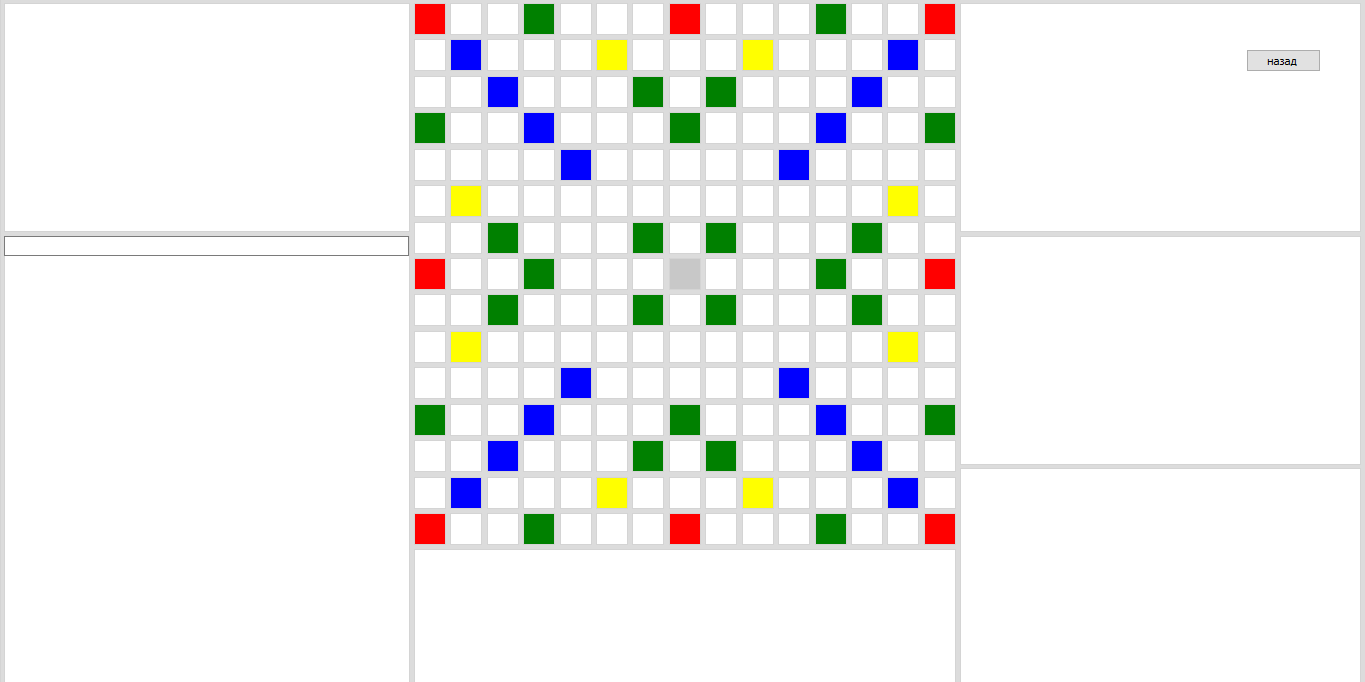
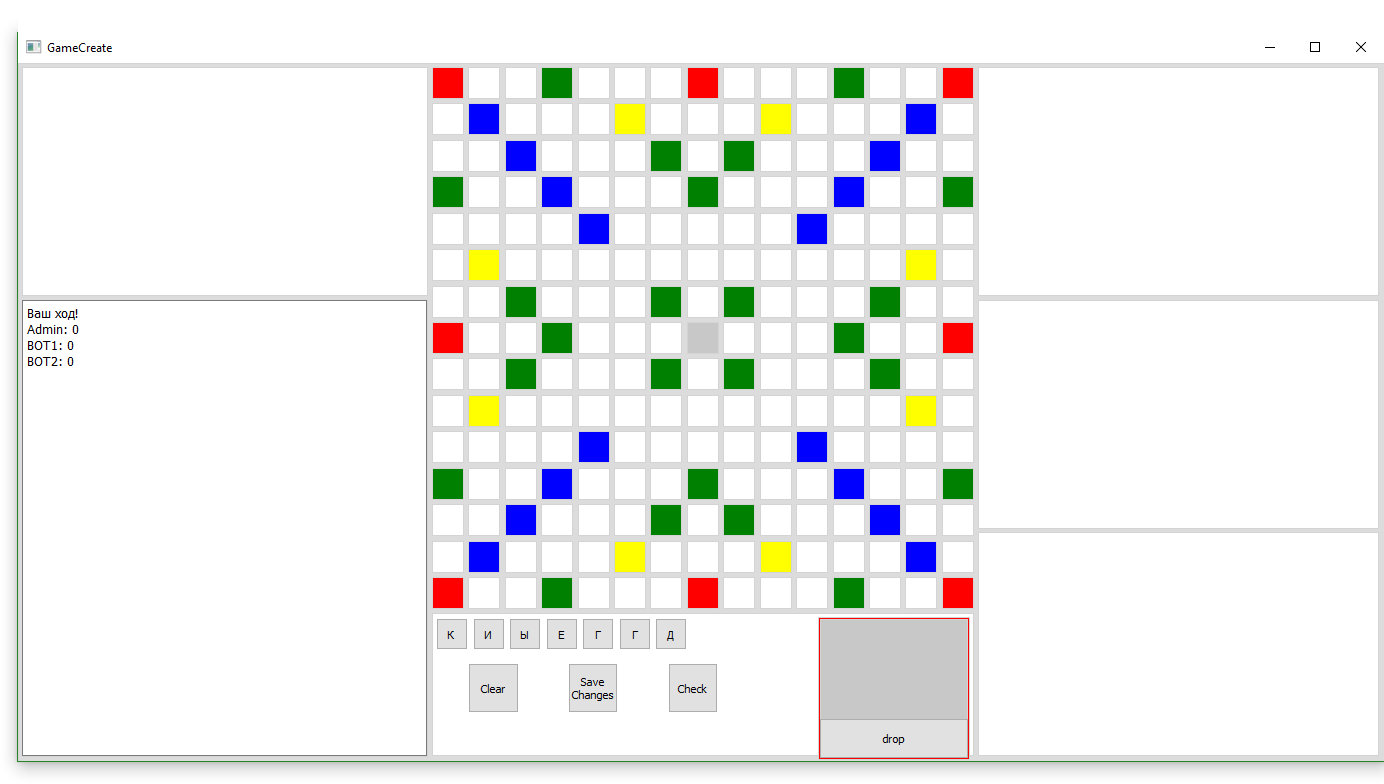
Исправление отчета

Changed region(s): [[0.0, 0.0, 1.0, 1.0]]

diff --git a/text/main.tex b/text/main.tex
@@ -11,7 +11,6 @@
 \documentclass[a4paper,14pt]{article}
 
 \input{data/preambular.tex}
-\input{data/algo.tex}
 \begin{document} % конец преамбулы, начало документа
 \input{data/title.tex}
 \tableofcontents
@@ -85,8 +84,8 @@ So, we chose this subject for work. As a result of the development was obtained 
 	\subsection{GameDictionary}
 	Это небольшой класс, однако он выполняет важные задачи.
 	При его инициализации из файла загружаются словари слов русского языка и пользовательский.
-	%TODO
-	В качестве основы был взят толковый словарь русского языка \cite{dictionary}.
+
+	В качестве основы был взят толковый словарь русского языка.
 	В процессе работы программы может быть вызван метод $append(self, item)$, который добавит в пользовательский словарь новое слово и сохранит его на диске.
 	Кроме того, метод $prepare(self, alphabet)$ подготавливает словарь для компьютерного соперника.
 	Это существенно облегчает работу алгоритма, так как сразу исключает те слова, которые никак не могут быть проставлены.
@@ -193,12 +192,15 @@ $PyQt5$ одна из самых мощных и популярных кросс
 		\caption{Задний фон}
 		\label{img:background}
 	\end{figure}
-		
+	
+	% TODO	
 	В функции $initUI$ создаются виджеты кнопок (QPushButton) и виджет изменения строки (QLineEdet), который будет использоваться в качестве консоли.
 		
+	% TODO
 	После ввода текста в консоль и нажатия кнопки "Enter"\ вызывается функция $enter$.
 	В зависимости от введенного текста могут выполниться следующие функции: $Help$, $ProverkaKoordinat$,  $lastLetters$,  $ClearChanges$, $SeveChangesForm$, $dobavlenie$, $Drop$.
 	
+	% TODO
 	\begin {itemize}
 	\item $Help$ (Help()) - показывает все возможные команды, которые можно выполнить используя консоль
 	\item $ProverkaKoordinat$ (ProverkaKoordinat(i, x, y)) - переносит букву с номером i на позицию (x, y), формирует массивы с новыми буквами и их координатами	
@@ -215,25 +217,26 @@ $PyQt5$ одна из самых мощных и популярных кросс
 	\item $Drop$ (Drop(dr)) - сбрасывает буквы, номера которых находятся в массиве dr.
 	\end {itemize}
 	
-	Для вывода уведомлений пользователю использовалась функция $Message$ (Message(text)), коротая при помощи виджета QMessageBox выводит уведомление пользователю.
-	Примеры изображены на \imref{img:startTurn} и \imref{img:endTurn}.
-	\begin{figure}[H]
-		\centering
-		\includegraphics[scale=1]{myhod.png}
-		\caption{Уведомление о начале хода}
-		\label{img:startTurn}
-	\end{figure}
-	\begin{figure}[H]
-		\centering
-		\includegraphics[scale=1]{endhod.png}
-		\caption{Уведомление о конце хода}
-		\label{img:endTurn}
-	\end{figure}
+	Для вывода уведомлений пользователю использовалась функция $add\_to\_console$, коротая добавляла текст уведомления о событиях в игре, а так же сообщала количество баллов каждого игрока (\imref{img:game}).
 
+	\begin{figure}[H]
+		\centering
+		\includegraphics[width=\linewidth]{game.png}
+		\caption{Игровое поле после нескольких ходов}
+		\label{img:game}
+	\end{figure}
 
 \section{Процесс работы программы}
-	В данный момент работа программы начинается с запуска игровых модулей.
-	При инициализации класса $GameServer$, который создает всех необходимых пользователей, с диска загружается словарь, подготавливается необходимый алфавит, после чего создается игровой интерфейс.
+	В данный момент работа программы начинается с запуска стартовой формы (\imref{img:start}).
+	Пользователь выбирает количество компьютерных соперников, с которыми он будет играть, а так же их уровень сложности от 0 до 1.
+	При нажатии кнопки <<Запустить>> создается игровая форма, игровой сервер, интерфейсы взаимодействия локального игрока и компьютерных соперников, загружается словарь и подготавливается алфавит, после чего готовая форма отображается пользователю.
+
+	\begin{figure}[H]
+		\centering
+		\includegraphics[width=0.4\linewidth]{start.png}
+		\caption{Форма создания игры}
+		\label{img:start}
+	\end{figure}
 
 	\subsection[Отрисовка интерфейса]{Отрисовка пользовательского интерфейса}
 	Отрисовка интерфейса начинается с создания формы, где задаются ее размеры, а также местоположение на экране.
@@ -241,19 +244,12 @@ $PyQt5$ одна из самых мощных и популярных кросс
 		
 	\subsection{Игровая механика}
 	Игроки ходят по очереди, действия компьютерного соперника выполняются автоматически, без вмешательства пользователя.
-	Человеку предоставлена возможность вносить команды через консоль.
-	С помощью команд которой он может устанавливать позицию фишек, очищать поле, сбрасывать фишки и завершать ход.
+	Человеку предоставлена возможность передавать команды через интуитивный графический интерфейс.
+	С его помощью можно фишки установить на поле или сбросить некоторое число, проверить правильность хода, добавить новые слова, отменить все свои действия.
 	Затем программа проверяет действия пользователя, и если она не нашла некоторые слова в своем словаре, то спрашивает игрока является ли найденная последовательность букв словом.
 	В случае успеха действия игрока запоминаются и ход передается следующему.
 	После каждого хода показывается уведомление, а также при наступлении очереди текущего игрока. На \imref{img:game} показан промежуточный этап игры.
 	
-	\begin{figure}[bhtp]
-		\centering
-		\includegraphics[width=0.5\linewidth]{game.png}
-		\caption{Результат модульного тестирования}
-		\label{img:game}
-	\end{figure}
-
 	\subsection{Завершение игры}
 	При достижении условий окончания игры - закончились фишки или все игроки пропустили ход определенное число раз - сервер завершает свою работу и показывает сообщение о баллах, которые набрал каждый игрок (\imref{img:endGame}).
 	
@@ -335,6 +331,15 @@ $PyQt5$ одна из самых мощных и популярных кросс
 	В игре есть возможность добавление новых слов в словарь.
 	В ходе многочисленных тестов программа работала стабильно.
 	
-\printbibliography[env=gostbibliography,sorting=ntvy]
+\newpage 
+\renewcommand{\refname}{{\normalsize СПИСОК ИСПОЛЬЗОВАННЫХ ИСТОЧНИКОВ}} 
+\centering 
+\begin{thebibliography}{9} 
+	\addcontentsline{toc}{section}{\refname} 
+	\bibitem{python} Доусон М. Программируем на Python //СПб.: Питер. – 2014. – Т. 416.
+	\bibitem{pyqt} Прохоренок Н. А. Python 3 и PyQt. Разработка приложений. – БХВ-Петербург, 2012.
+	\bibitem{scrabble} Скрэббл, URL: \url{https://ru.wikipedia.org/wiki/Скрэббл} (дата обращения 13.01.2018) 
+	
+\end{thebibliography}
 \end{document} % конец документа
 

diff --git a/text/data/preambular.tex b/text/data/preambular.tex
@@ -90,38 +90,13 @@
 	filecolor=magenta,      % на файлы
 	urlcolor=black           % на URL
 }
-
-%\usepackage{csquotes} % Еще инструменты для ссылок
-%
-%\usepackage[style=authoryear,
-%style
-%maxcitenames=2,
-%backend=biber,
-%sorting=nty
-%]{biblatex}
-
-\usepackage[% 
-backend=biber, %подключение пакета biber (тоже нужен)
-bibstyle=gost-numeric, %подключение одного из четырех главных стилей biblatex-gost 
-%citestyle=numeric-comp, %подключение стиля стиля (а вот!) 
-language=auto, %указание сортировки языков
-babel=other, %указание языков
-sorting=ntvy, %тип сортировки в библиографии
-doi=false, 
-eprint=false, 
-isbn=false, 
-dashed=false, 
-url=false %все false выключают отображение полей, заполненных в библиографической базе, но не актуальных для печатного листа
-]{biblatex}
-\usepackage{bibentry} %пакет, отвечающий за отображение ссылок при использовании BibTex 
-\DeclareFieldFormat{postnote}{#1} %убирает с. и p. 
-\renewcommand*{\multicitedelim}{\addsemicolon\space} % добавляет точку с запятой и пробел (; ) в перечислении
-\renewcommand*{\postnotedelim}{\addcolon\space} % добавляет двоеточие и пробел (: ) перед номером страницы
-
-\DeclareFieldFormat{url}{%
-	\mkbibacro{URL}\addcolon\space
-	\href{#1}{\nolinkurl{\thefield{urlraw}}}}
-\addbibresource{data/books.bib}
+\makeatletter 
+\def\@biblabel#1{#1. } 
+\makeatother
+\usepackage{cite} % Работа с библиографией
+%\usepackage[superscript]{cite} % Ссылки в верхних индексах
+%\usepackage[nocompress]{cite} % 
+\usepackage{csquotes} % Еще инструменты для ссылок
 
 \usepackage{multicol} % Несколько колонок
 

diff --git a/text/data/title.tex b/text/data/title.tex
@@ -9,7 +9,7 @@
 	\begin{center}
 		\textbf{Московский институт электроники и математики}
 		
-		\textbf{ВШЭ Им. А.Н.Тихонова НИУ}
+		\textbf{Им. А.Н.Тихонова НИУ ВШЭ}
 	\end{center}
 	\vspace{1ex}	
 	\begin{center}
